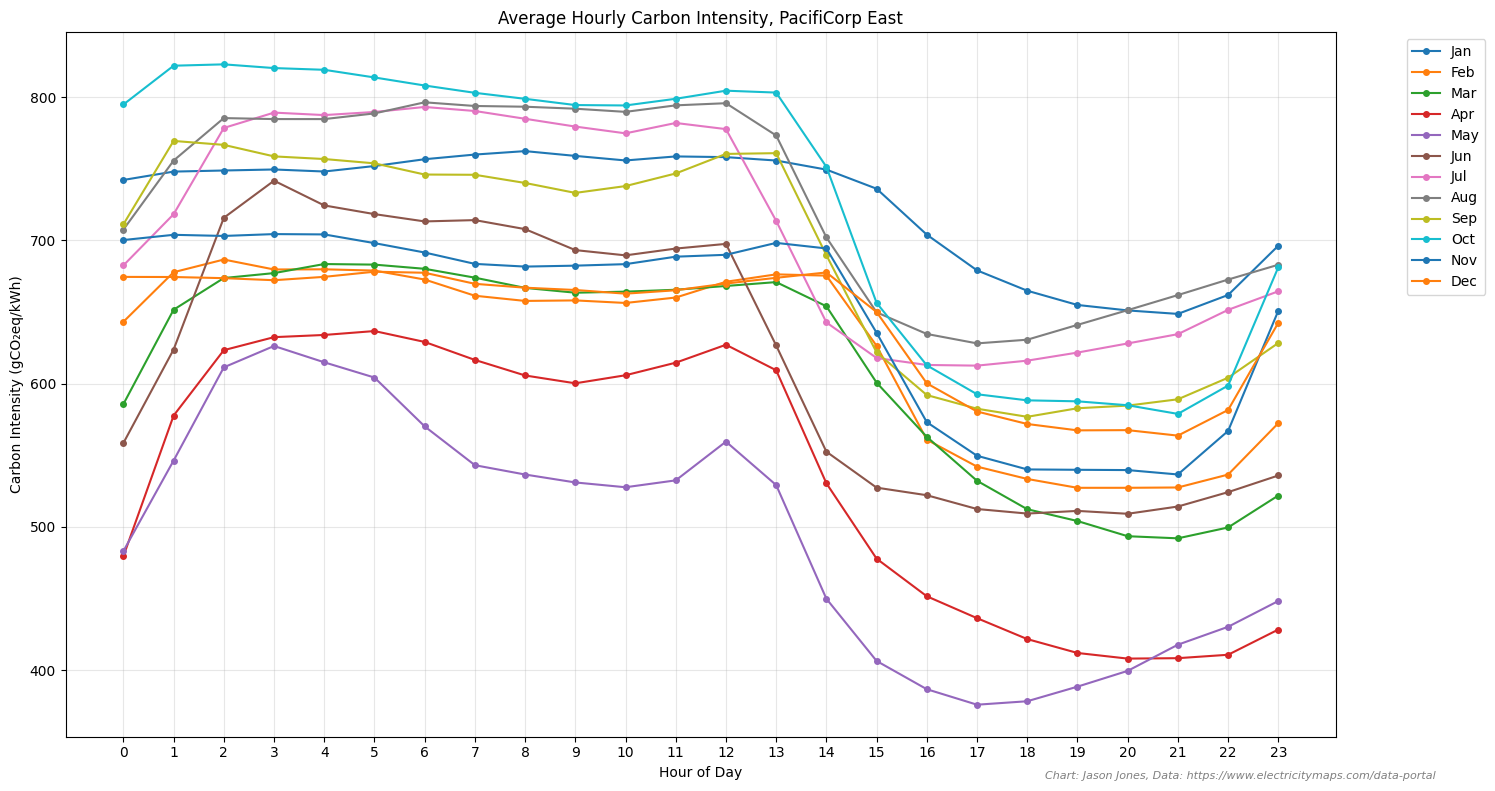
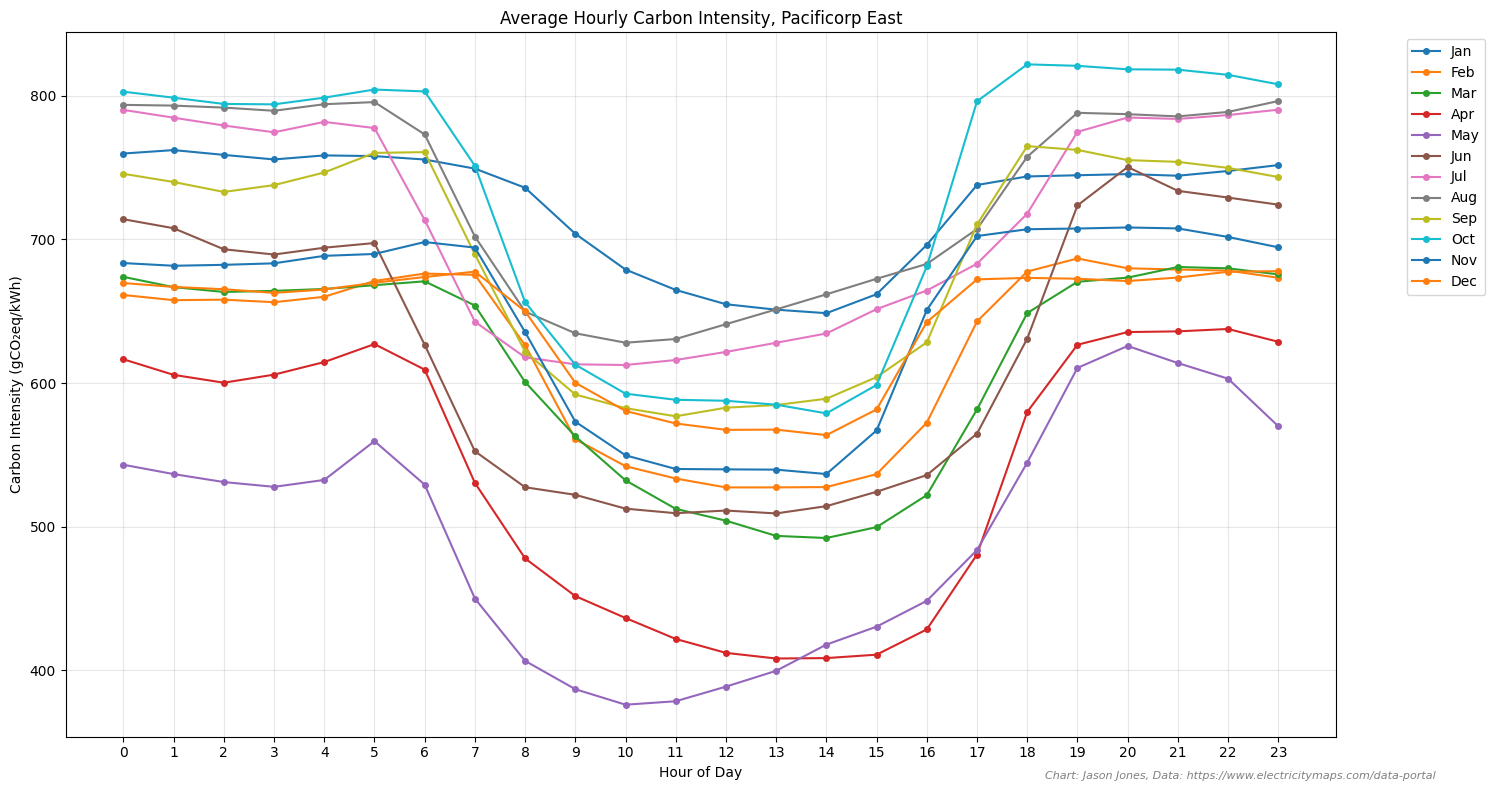
Updated analysis and readme

diff --git a/README.md b/README.md
@@ -1,29 +1,49 @@
-# Grid Carbon Intensity Analysis
+# Grid Carbon Intensity & Load Shifting Analysis
 
-This project analyzes hourly carbon intensity data from the U.S. electrical grid across 55 different zones, using data from [Electricity Maps](https://www.electricitymaps.com/data-portal/united-states-of-america). The analysis provides insights into regional variations in carbon intensity, renewable energy adoption, and daily variability patterns.
+## Summary
+
+The grid is getting cleaner each year with new renewable--but intermittent--energy sources (mostly wind and solar) and the retirement of coal plants. There are 61 interconnected "grids" in the USA that vary dramatically from the cleanest (24 gCO2eq/kWh) to the dirtiest (766 gCO2eq/kWh). Often in the dirtiest grids, the daily carbon intensity can varyBased on WHEN consumers use electricity, users of the same grid, in this case PacifiCorp East, can emit up to 56% less carbon by shifting their usage to periods of lower carbon intensity. *TODO: Add USA carbon intensity chart* My home grid, PacifiCorp East services 1.2 million customers in Utah, Wyoming, and Idaho and is the 4th dirtiest grid in the country.
+
+| Power Source | Installed Capacity (MW) | Carbon Intensity (gCO₂eq/kWh) |
+|--------------|-------------------------|-------------------------------|
+| Coal         | 6,990                  | 1,097                        |
+| Wind         | 3,600                  | 11                           |
+| Natural Gas  | 3,450                  | 524                          |
+| Solar        | 2,190                  | 27                           |
+| Hydroelectric|   272                  | 24                           |
+| Other        |    53                  | ~700                         |
+
+This project analyzes hourly carbon intensity data from the U.S. electrical grid across 55 different zones, using data from [Electricity Maps](https://www.electricitymaps.com/data-portal/united-states-of-america) (see also interactive map [here](https://app.electricitymaps.com/map)). The analysis provides insights into regional variations in carbon intensity, renewable energy adoption, and daily variability patterns.
 
 
-## Key Findings and Insights
+## Key Insights
 
-### 1. Regional Carbon Intensity Variations
-![Carbon Intensity Variability USA](artifacts/carbon-intensity-variability-USA.png)
-The map shows significant regional variations in carbon intensity across the United States, with some zones consistently showing higher carbon intensity than others.
+### 1. Do you know how dirty your local grid is?
+From the cleanest grids--powered by hydro--at 24 gCO2eq/kWh to the dirtiest--powered by coal (above 1000 gCO2eq/kWh), the carbon intensity of the US grid can vary by an order of magnitude.  Also interesting to note the amount of daily variability in carbon intensity for each zone.  Run analyze_carbon_data.py for a more complete list.  Ouch!  My grid, Pacificorp East (PACE), is the 4th dirtiest in the country.
+![Carbon Intensity Variability USA](artifacts/10-dirtiest-grids-USA.png)
 
-### 2. Daily Patterns in PACE Region
-![Hourly Carbon Intensity PACE](artifacts/hourly-carbon-intensity-6May2023-PACE.png)
-Detailed analysis of the PACE (PacifiCorp East) region shows distinct daily patterns in carbon intensity, with notable peaks during high demand periods.
+Even when the averages are similar, there can be significant differences in the variability in seasonal and even daily intensities.  Those with the highest variability provide load shifting opportunities to reduce carbon emissions by almost 2x  (see below).
+![PACE  FL Details](artifacts/PACE-FL-grid-details.png)
+
+
+### 2. Some months have significantly more variability than others
+In the PACE example, the daily variability is highest in May.  By load shifting, PACE customers can reduce their grid carbon intensity by 56% on average and 80%
+![Daily Carbon Intensity Variability](artifacts/avg-daily-carbon-intensity-variability-PACE.png)
+
 
 ### 3. Monthly Trends
+Each day varies significantly based on the weather.  These charts shows the average hourly intensity by month.  Generally the cleanest hours are midday.
 ![Monthly Intensity Patterns](artifacts/hourly-intensity-by-month-PACE.png)
-Monthly analysis reveals seasonal patterns in carbon intensity, with variations likely tied to renewable energy availability and seasonal demand changes.
 
-### 4. Impact on EV Charging
-![EV Charging Impact](artifacts/EV-charge-timing-impact.png)
+### 4. Daily Patterns in PACE Region
+The most variable day in 2023 was 18th June at 149%.
+![Hourly Carbon Intensity PACE](artifacts/highest-variability-2023.png)
+
+### 5. Impact on EV Charging
 Analysis demonstrates how EV charging timing can significantly impact carbon emissions, with optimal charging windows during periods of lower grid carbon intensity.
+![EV Charging Impact](artifacts/EV-charge-timing-impact.png)
 
-### 5. Daily Variability Analysis
-![Daily Carbon Intensity Variability](artifacts/avg-daily-carbon-intensity-variability-PACE.png)
-This visualization shows the average daily variability in carbon intensity, highlighting the importance of timing for energy-intensive activities.
+
 
 ## Setup
 
